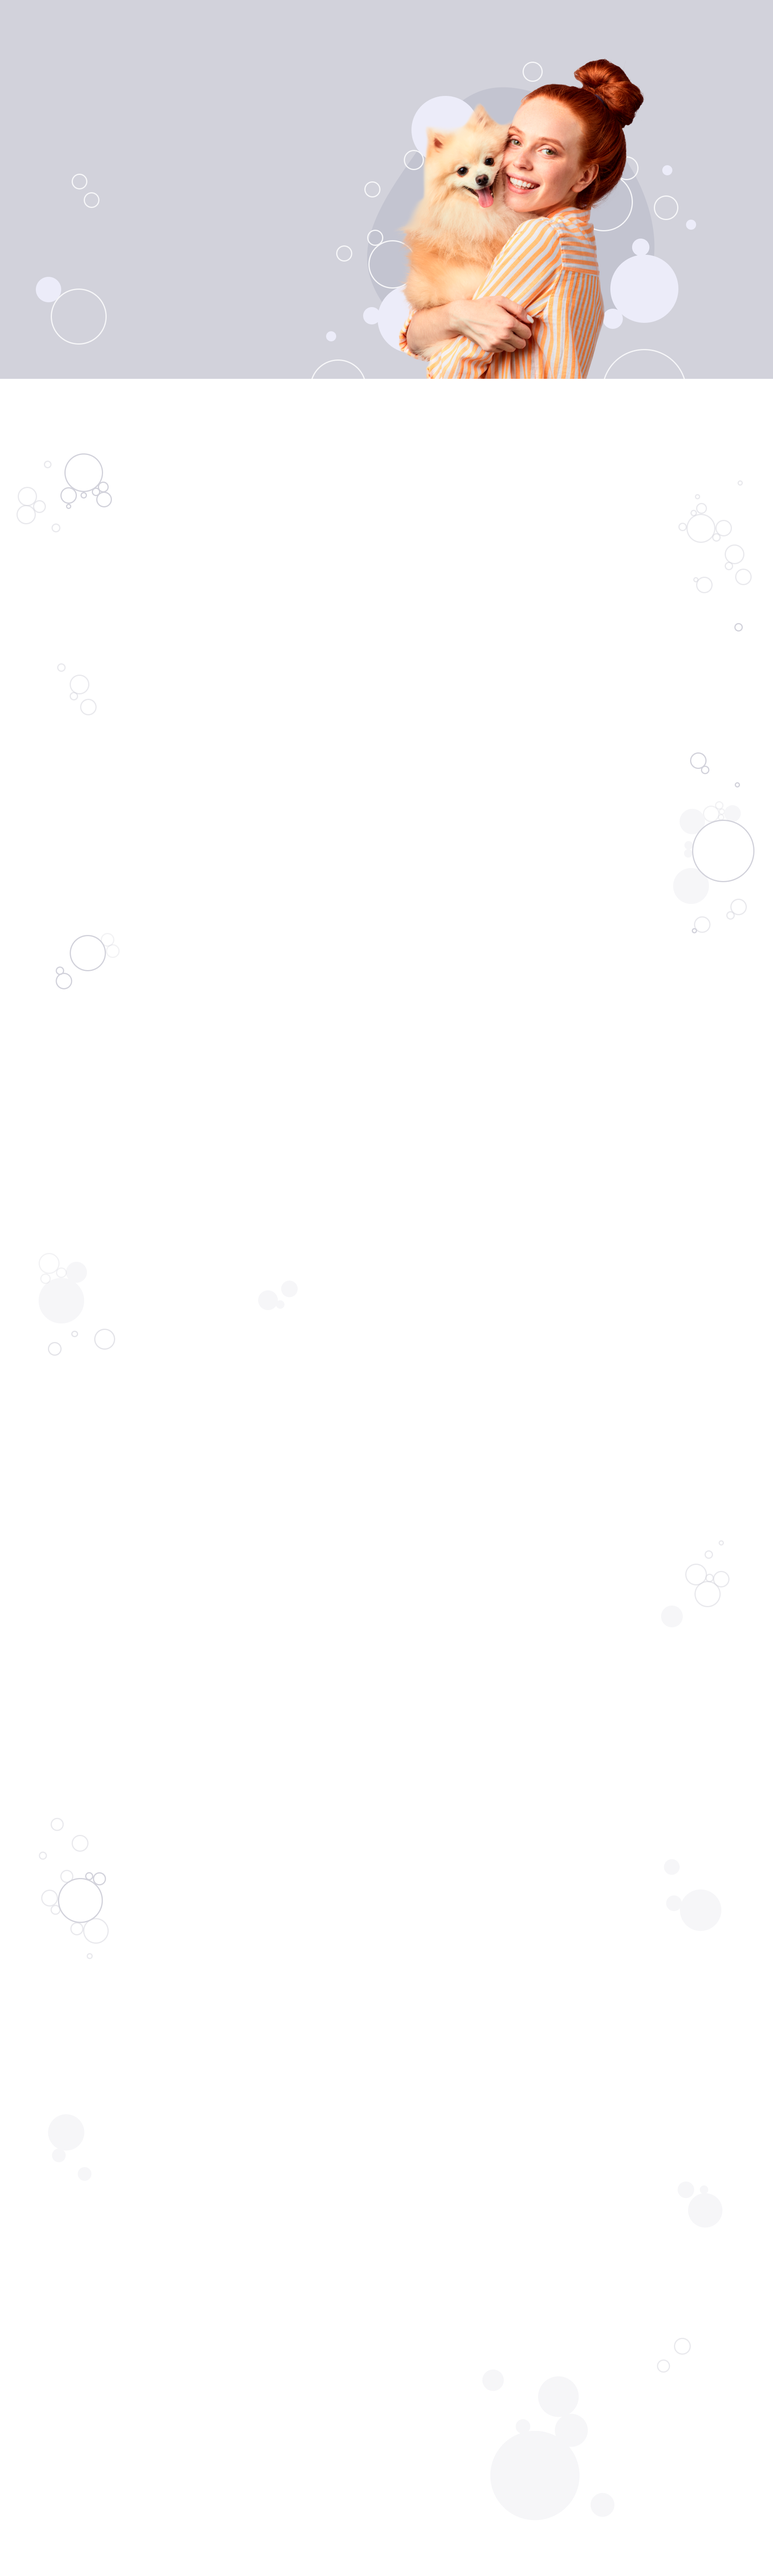
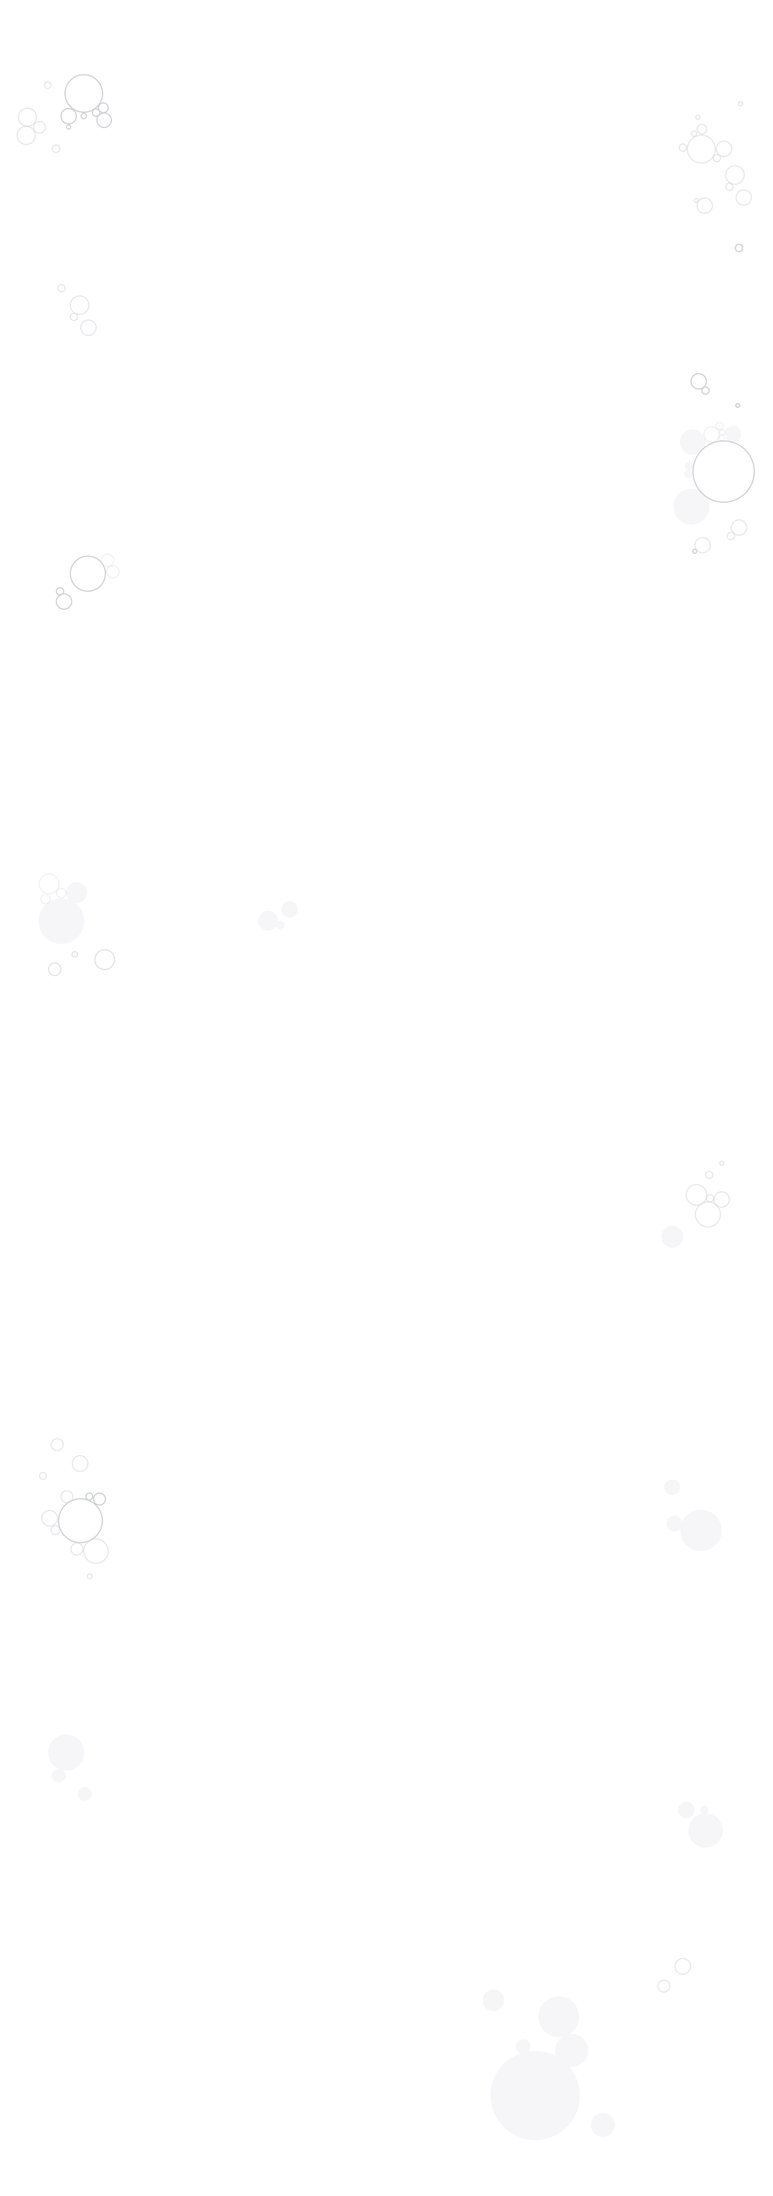
Подключил Swiper.js

Changed region(s): [[0.0, 0.0, 1.0, 0.1559]]

diff --git a/css/style.min.css b/css/style.min.css
@@ -1,1 +1,1 @@
-html,body,div,span,applet,object,iframe,h1,h2,h3,h4,h5,h6,p,blockquote,pre,a,abbr,acronym,address,big,cite,code,del,dfn,em,img,ins,kbd,q,s,samp,small,strike,strong,sub,sup,tt,var,b,u,i,center,dl,dt,dd,ol,ul,li,fieldset,form,label,legend,table,caption,tbody,tfoot,thead,tr,th,td,article,aside,canvas,details,embed,figure,figcaption,footer,header,hgroup,menu,nav,output,ruby,section,summary,time,mark,audio,video{margin:0;padding:0;border:0;font-size:100%;font:inherit;vertical-align:baseline}article,aside,details,figcaption,figure,footer,header,hgroup,menu,nav,section{display:block}body{line-height:1}ol,ul{list-style:none}blockquote,q{quotes:none}blockquote:before,blockquote:after,q:before,q:after{content:"";content:none}table{border-collapse:collapse;border-spacing:0}@font-face{font-family:"Circe";src:url("../fonts/Circe-ExtraBold.woff2") format("woff2"),url("../fonts/Circe-ExtraBold.woff") format("woff"),url("../fonts/Circe-ExtraBold.ttf") format("truetype");font-weight:bold;font-style:normal;font-display:swap}@font-face{font-family:"Circe";src:url("../fonts/Circe-Regular.woff2") format("woff2"),url("../fonts/Circe-Regular.woff") format("woff"),url("../fonts/Circe-Regular.ttf") format("truetype");font-weight:normal;font-style:normal;font-display:swap}*{box-sizing:border-box}body{font-family:"Circe",sans-serif;background:url("../img/main-bg.png")}.container{width:1170px;margin:0 auto}header{width:100%;position:absolute}header .d-fl{display:flex;align-items:center;justify-content:space-between}header .d-fl .header__logo{margin-top:20px}header .d-fl .header__menu-list{display:flex;gap:50px}header .d-fl .header__menu-list-item a{font-weight:400;font-size:20px;text-decoration:none;color:#240401;opacity:.5;transition:.25s}header .d-fl .header__menu-list-item a:hover{opacity:1}header .d-fl .header__social-list{display:flex;position:relative;gap:15px}header .d-fl .header__social-list-item{display:block;position:relative;text-align:center;background-color:#744037;width:30px;height:30px;border-radius:50%;transition:.25s all}header .d-fl .header__social-list-item:hover{background:#c3a78e}header .d-fl .header__social-list-item img{position:absolute;top:50%;left:50%;transform:translate(-50%, -50%)}header .d-fl .header__contact{text-align:right}header .d-fl .header__contact-phone{text-decoration:none;font-weight:bold;font-size:24px;color:#744037;transition:.25s all}header .d-fl .header__contact-phone:hover{color:#c3a78e}header .d-fl .header__contact-address{font-weight:400;font-size:16px;color:#240401;opacity:.5}.promo{min-height:940px}.promo .container{padding-top:340px}.promo .container .content{width:465px}.promo__heading-1{font-weight:800;font-size:42px;line-height:120%;color:#744037}.promo__text{font-weight:400;font-size:16px;opacity:.5;margin-top:10px;line-height:140%}.promo__btn{display:flex;justify-content:center;align-items:center;margin-top:40px;gap:10px;width:225px;height:50px;background:linear-gradient(12.18deg, #743837 -18.77%, #C3A78E 221.97%);box-shadow:0px 2px 0px #6c3232,0px 5px 10px rgba(116,64,55,.75);border-radius:25px;border:none;font-weight:400;font-size:16px;line-height:100%;color:#fff;transition:.2s all}.promo__btn:hover{background:linear-gradient(185.84deg, #6C3232 4.67%, #7F4743 95.39%);box-shadow:0px 1px 0px #6c3232,0px 2px 10px rgba(116,64,55,.6),inset 0px 4px 9px #552727}.promo__btn:active{background:linear-gradient(187.53deg, #AC8E73 25.18%, #C3A78E 94.2%);box-shadow:0px 1px 0px #9f7d5e,0px 2px 10px #ba9a7d,inset 0px 4px 9px #97806b}.services__heading-2{font-weight:800;font-size:42px;margin-top:55px;color:#744037}.services__service-list{display:flex;flex-wrap:wrap;gap:30px;padding:50px 0}.services__service-list-item{cursor:pointer;width:270px}.services__service-list-item-info{padding:0 15px}.services__service-list-item-info-heading{text-align:left;font-weight:400;font-size:24px;line-height:150%;color:#240401}.services__service-list-item-info-price{display:flex;justify-content:space-between}.services__service-list-item-info-price span{font-weight:800;font-size:24px;line-height:150%;color:#240401}.services__service-list-item-img{position:relative;margin-bottom:14px;width:270px;height:270px;background:#d2d2db;border-radius:25px;position:relative;overflow:hidden;transition:all linear .3s}.services__service-list-item-img::before{content:"";display:block;position:absolute;width:318px;height:318px;top:40%;left:50%;transform:translateX(-50%);border-radius:50%;z-index:1;background:#c3c3d0;transition:all linear .4s}.services__service-list-item-img-dog1{position:absolute;bottom:0;left:50%;transform:translateX(-50%);z-index:3}.services__service-list-item-img-dog2{display:none;position:absolute;bottom:0;left:50%;transform:translateX(-50%);z-index:2;transition:all linear .4s;filter:blur(8px)}.services__service-list-item-img-ellipse{position:absolute;top:-2px;right:-2px;transition:all linear .4s}.services__service-list-item:hover .services__service-list-item-img{background:#744037}.services__service-list-item:hover .services__service-list-item-img-dog2{display:block}.services__service-list-item:hover .services__service-list-item-img-ellipse{fill:#c3a78e;stroke:#c3a78e}.services__service-list-item:hover .services__service-list-item-img::before{width:374px;height:374px;top:54px;background:radial-gradient(94.25% 94.25% at 50% 5.75%, #C3A78E 0%, rgba(195, 167, 142, 0) 100%)}.services__price-list{display:flex;flex-wrap:wrap;justify-content:space-between}.services__price-list-item{width:370px;height:370px;border-radius:25px;border:4px dashed #d2d2db;padding:0 35px 62px;color:#240401;position:relative;transition:all ease-in-out .2s}.services__price-list-item-image{position:absolute;top:30px;left:35px}.services__price-list-item-heading{font-weight:800;font-size:24px;line-height:130%;margin-top:178px}.services__price-list-item-descr{margin-top:20px;font-weight:400;font-size:16px;line-height:150%}.services__price-list-item-link{opacity:0;position:absolute;right:24px;bottom:24px;display:flex;justify-content:center;align-items:center;width:50px;height:50px;border-radius:50%;background:#d2d2db;transition:all ease-in-out .2s}.services__price-list-item:hover{background-color:#f6f6f8;border:4px solid #f6f6f8}.services__price-list-item:hover .services__price-list-item-link{opacity:1}.services__discount{display:flex;flex-wrap:wrap;gap:30px;margin-top:50px}.services__discount-stock-card{padding:30px 38px;width:570px;height:300px;border-radius:25px;background:url("../img/discount-bg1.png");position:relative}.services__discount-stock-card-image{position:absolute;right:0;bottom:-35px}.services__discount-bonus-card{padding:30px 38px;width:570px;height:300px;border-radius:25px;background:url("../img/discount-bg2.png");position:relative}.services__discount-bonus-card-image{position:absolute;right:0;bottom:-35px}.services__discount-heading{font-weight:400;font-size:20px;color:#d2d2db;opacity:.75;line-height:20px}.services__discount-descr{margin-top:11px;font-weight:800;font-size:42px;line-height:120%;color:#fff}
+html,body,div,span,applet,object,iframe,h1,h2,h3,h4,h5,h6,p,blockquote,pre,a,abbr,acronym,address,big,cite,code,del,dfn,em,img,ins,kbd,q,s,samp,small,strike,strong,sub,sup,tt,var,b,u,i,center,dl,dt,dd,ol,ul,li,fieldset,form,label,legend,table,caption,tbody,tfoot,thead,tr,th,td,article,aside,canvas,details,embed,figure,figcaption,footer,header,hgroup,menu,nav,output,ruby,section,summary,time,mark,audio,video{margin:0;padding:0;border:0;font-size:100%;font:inherit;vertical-align:baseline}article,aside,details,figcaption,figure,footer,header,hgroup,menu,nav,section{display:block}body{line-height:1}ol,ul{list-style:none}blockquote,q{quotes:none}blockquote:before,blockquote:after,q:before,q:after{content:"";content:none}table{border-collapse:collapse;border-spacing:0}@font-face{font-family:"Circe";src:url("../fonts/Circe-ExtraBold.woff2") format("woff2"),url("../fonts/Circe-ExtraBold.woff") format("woff"),url("../fonts/Circe-ExtraBold.ttf") format("truetype");font-weight:bold;font-style:normal;font-display:swap}@font-face{font-family:"Circe";src:url("../fonts/Circe-Regular.woff2") format("woff2"),url("../fonts/Circe-Regular.woff") format("woff"),url("../fonts/Circe-Regular.ttf") format("truetype");font-weight:normal;font-style:normal;font-display:swap}*{box-sizing:border-box}body{font-family:"Circe",sans-serif}.container{width:1170px;margin:0 auto}header{width:100%;position:absolute;z-index:2}header .d-fl{display:flex;align-items:center;justify-content:space-between}header .d-fl .header__logo{margin-top:20px}header .d-fl .header__menu-list{display:flex;gap:50px}header .d-fl .header__menu-list-item a{font-weight:400;font-size:20px;text-decoration:none;color:#240401;opacity:.5;transition:.25s}header .d-fl .header__menu-list-item a:hover{opacity:1}header .d-fl .header__social-list{display:flex;position:relative;gap:15px}header .d-fl .header__social-list-item{display:block;position:relative;text-align:center;background-color:#744037;width:30px;height:30px;border-radius:50%;transition:.25s all}header .d-fl .header__social-list-item:hover{background:#c3a78e}header .d-fl .header__social-list-item img{position:absolute;top:50%;left:50%;transform:translate(-50%, -50%)}header .d-fl .header__contact{text-align:right}header .d-fl .header__contact-phone{text-decoration:none;font-weight:bold;font-size:24px;color:#744037;transition:.25s all}header .d-fl .header__contact-phone:hover{color:#c3a78e}header .d-fl .header__contact-address{font-weight:400;font-size:16px;color:#240401;opacity:.5}.promo{min-height:940px;background:#d2d2db}.promo .swiper{width:100%;height:100%}.promo-bg{background:url("../img/promo-background.png");min-height:940px}.promo .container{padding-top:340px}.promo .container .content{width:465px}.promo__heading-1{font-weight:800;font-size:42px;line-height:120%;color:#744037}.promo__text{font-weight:400;font-size:16px;opacity:.5;margin-top:10px;line-height:140%}.promo__btn{display:flex;justify-content:center;align-items:center;margin-top:40px;gap:10px;width:225px;height:50px;background:linear-gradient(12.18deg, #743837 -18.77%, #C3A78E 221.97%);box-shadow:0px 2px 0px #6c3232,0px 5px 10px rgba(116,64,55,.75);border-radius:25px;border:none;font-weight:400;font-size:16px;line-height:100%;color:#fff;transition:.2s all}.promo__btn:hover{background:linear-gradient(185.84deg, #6C3232 4.67%, #7F4743 95.39%);box-shadow:0px 1px 0px #6c3232,0px 2px 10px rgba(116,64,55,.6),inset 0px 4px 9px #552727}.promo__btn:active{background:linear-gradient(187.53deg, #AC8E73 25.18%, #C3A78E 94.2%);box-shadow:0px 1px 0px #9f7d5e,0px 2px 10px #ba9a7d,inset 0px 4px 9px #97806b}.services{background:url("../img/main-bg.png")}.services__heading-2{font-weight:800;font-size:42px;margin-top:55px;color:#744037}.services__service-list{display:flex;flex-wrap:wrap;gap:30px;padding:50px 0}.services__service-list-item{cursor:pointer;width:270px}.services__service-list-item-info{padding:0 15px}.services__service-list-item-info-heading{text-align:left;font-weight:400;font-size:24px;line-height:150%;color:#240401}.services__service-list-item-info-price{display:flex;justify-content:space-between}.services__service-list-item-info-price span{font-weight:800;font-size:24px;line-height:150%;color:#240401}.services__service-list-item-img{position:relative;margin-bottom:14px;width:270px;height:270px;background:#d2d2db;border-radius:25px;position:relative;overflow:hidden;transition:all linear .3s}.services__service-list-item-img::before{content:"";display:block;position:absolute;width:318px;height:318px;top:40%;left:50%;transform:translateX(-50%);border-radius:50%;z-index:1;background:#c3c3d0;transition:all linear .4s}.services__service-list-item-img-dog1{position:absolute;bottom:0;left:50%;transform:translateX(-50%);z-index:3}.services__service-list-item-img-dog2{display:none;position:absolute;bottom:0;left:50%;transform:translateX(-50%);z-index:2;transition:all linear .4s;filter:blur(8px)}.services__service-list-item-img-ellipse{position:absolute;top:-2px;right:-2px;transition:all linear .4s}.services__service-list-item:hover .services__service-list-item-img{background:#744037}.services__service-list-item:hover .services__service-list-item-img-dog2{display:block}.services__service-list-item:hover .services__service-list-item-img-ellipse{fill:#c3a78e;stroke:#c3a78e}.services__service-list-item:hover .services__service-list-item-img::before{width:374px;height:374px;top:54px;background:radial-gradient(94.25% 94.25% at 50% 5.75%, #C3A78E 0%, rgba(195, 167, 142, 0) 100%)}.services__price-list{display:flex;flex-wrap:wrap;justify-content:space-between}.services__price-list-item{width:370px;height:370px;border-radius:25px;border:4px dashed #d2d2db;padding:0 35px 62px;color:#240401;position:relative;transition:all ease-in-out .2s}.services__price-list-item-image{position:absolute;top:30px;left:35px}.services__price-list-item-heading{font-weight:800;font-size:24px;line-height:130%;margin-top:178px}.services__price-list-item-descr{margin-top:20px;font-weight:400;font-size:16px;line-height:150%}.services__price-list-item-link{opacity:0;position:absolute;right:24px;bottom:24px;display:flex;justify-content:center;align-items:center;width:50px;height:50px;border-radius:50%;background:#d2d2db;transition:all ease-in-out .2s}.services__price-list-item:hover{background-color:#f6f6f8;border:4px solid #f6f6f8}.services__price-list-item:hover .services__price-list-item-link{opacity:1}.services__discount{display:flex;flex-wrap:wrap;gap:30px;margin-top:50px}.services__discount-stock-card{padding:30px 38px;width:570px;height:300px;border-radius:25px;background:url("../img/discount-bg1.png");position:relative}.services__discount-stock-card-image{position:absolute;right:0;bottom:-35px}.services__discount-bonus-card{padding:30px 38px;width:570px;height:300px;border-radius:25px;background:url("../img/discount-bg2.png");position:relative}.services__discount-bonus-card-image{position:absolute;right:0;bottom:-35px}.services__discount-heading{font-weight:400;font-size:20px;color:#d2d2db;opacity:.75;line-height:20px}.services__discount-descr{margin-top:11px;font-weight:800;font-size:42px;line-height:120%;color:#fff}

diff --git a/index.html b/index.html
@@ -5,6 +5,7 @@
     <meta http-equiv="X-UA-Compatible" content="IE=edge">
     <meta name="viewport" content="width=device-width, initial-scale=1.0">
     <link rel="stylesheet" href="css/style.min.css">
+    <link rel="stylesheet" href="https://cdn.jsdelivr.net/npm/swiper@8/swiper-bundle.min.css"/>
     <title>Grooming</title>
 </head>
 <body>
@@ -12,13 +13,13 @@
         <div class="container">
             <div class="d-fl">
                 <div class="header__logo">
-                    <a href="#">
+                    <a href="/">
                         <img width="157" height="100" src="./img/logo.svg" alt="">
                     </a>
                 </div>
                 <nav class="header__menu">
                     <ul class="header__menu-list">
-                        <li class="header__menu-list-item"><a href="#">Наши услуги</a></li>
+                        <li class="header__menu-list-item"><a href="#services">Наши услуги</a></li>
                         <li class="header__menu-list-item"><a href="#">О компании</a></li>
                         <li class="header__menu-list-item"><a href="#">Отзывы</a></li>
                         <li class="header__menu-list-item"><a href="#">Контакты</a></li>
@@ -52,20 +53,28 @@
     </header>
     <main>
         <div class="promo">
-            <div class="container">
-                <div class="content">
-                    <h1 class="promo__heading-1">Первый СПА-салон<br>для любимых хвостиков</h1>
-                    <p class="promo__text">
-                        Человеческий организм получает почти все необходимые вещества именно через пищу и воду. С питанием связаны все жизненно важные функции организма. 
-                    </p>
-                    <button class="promo__btn">
-                        <img src="img/paw.svg" alt="">
-                        Записаться
-                    </button>
+            <div class="swiper">
+                <div class="swiper-wrapper">
+                    <div class="swiper-slide">
+                        <div class="promo-bg">
+                            <div class="container">
+                                <div class="content">
+                                    <h1 class="promo__heading-1">Первый СПА-салон<br>для любимых хвостиков</h1>
+                                    <p class="promo__text">
+                                        Человеческий организм получает почти все необходимые вещества именно через пищу и воду. С питанием связаны все жизненно важные функции организма. 
+                                    </p>
+                                    <button class="promo__btn">
+                                        <img src="img/paw.svg" alt="">
+                                        Записаться
+                                    </button>
+                                </div>
+                            </div>
+                        </div>
+                    </div>
                 </div>
             </div>
         </div>
-        <div class="services">
+        <div id="services" class="services">
             <div class="container">
                 <h2 class="services__heading-2">Наши услуги</h2>
                 <div class="services__service-list">
@@ -244,5 +253,7 @@
             </div>
         </div>
     </main>
+    <script src="https://cdn.jsdelivr.net/npm/swiper@8/swiper-bundle.min.js"></script>
+    <script src="js/script.js"></script>
 </body>
 </html>

diff --git a/scss/style.scss b/scss/style.scss
@@ -8,7 +8,6 @@
 
 body {
     font-family: 'Circe', sans-serif;
-    background: url('../img/main-bg.png');
 }
 
 .container {
@@ -19,7 +18,7 @@ body {
 header {
     width: 100%;
     position: absolute;
-    
+    z-index: 2;
         .d-fl {
             display: flex;
             align-items: center;
@@ -96,7 +95,15 @@ header {
 
 .promo {
     min-height: 940px;
-    // background: url('../img/promo-background.png');
+    background: $first-color;
+    .swiper {
+        width: 100%;
+        height: 100%;
+    }
+    &-bg {
+        background: url('../img/promo-background.png');
+        min-height: 940px;
+    }
     .container {
         padding-top: 340px;
         .content {
@@ -145,6 +152,7 @@ header {
 }
 
 .services {
+    background: url('../img/main-bg.png');
     &__heading-2 {
         font-weight: 800;
         font-size: 42px;

diff --git a/css/style.css b/css/style.css
@@ -67,7 +67,6 @@ table {
 
 body {
   font-family: "Circe", sans-serif;
-  background: url("../img/main-bg.png");
 }
 
 .container {
@@ -78,6 +77,7 @@ body {
 header {
   width: 100%;
   position: absolute;
+  z-index: 2;
 }
 header .d-fl {
   display: flex;
@@ -148,6 +148,15 @@ header .d-fl .header__contact-address {
 
 .promo {
   min-height: 940px;
+  background: #D2D2DB;
+}
+.promo .swiper {
+  width: 100%;
+  height: 100%;
+}
+.promo-bg {
+  background: url("../img/promo-background.png");
+  min-height: 940px;
 }
 .promo .container {
   padding-top: 340px;
@@ -195,6 +204,9 @@ header .d-fl .header__contact-address {
   box-shadow: 0px 1px 0px #9F7D5E, 0px 2px 10px #BA9A7D, inset 0px 4px 9px #97806B;
 }
 
+.services {
+  background: url("../img/main-bg.png");
+}
 .services__heading-2 {
   font-weight: 800;
   font-size: 42px;

diff --git a/js/script.js b/js/script.js
@@ -1,0 +1,3 @@
+new Swiper('.swiper', {
+    loop: true
+});
